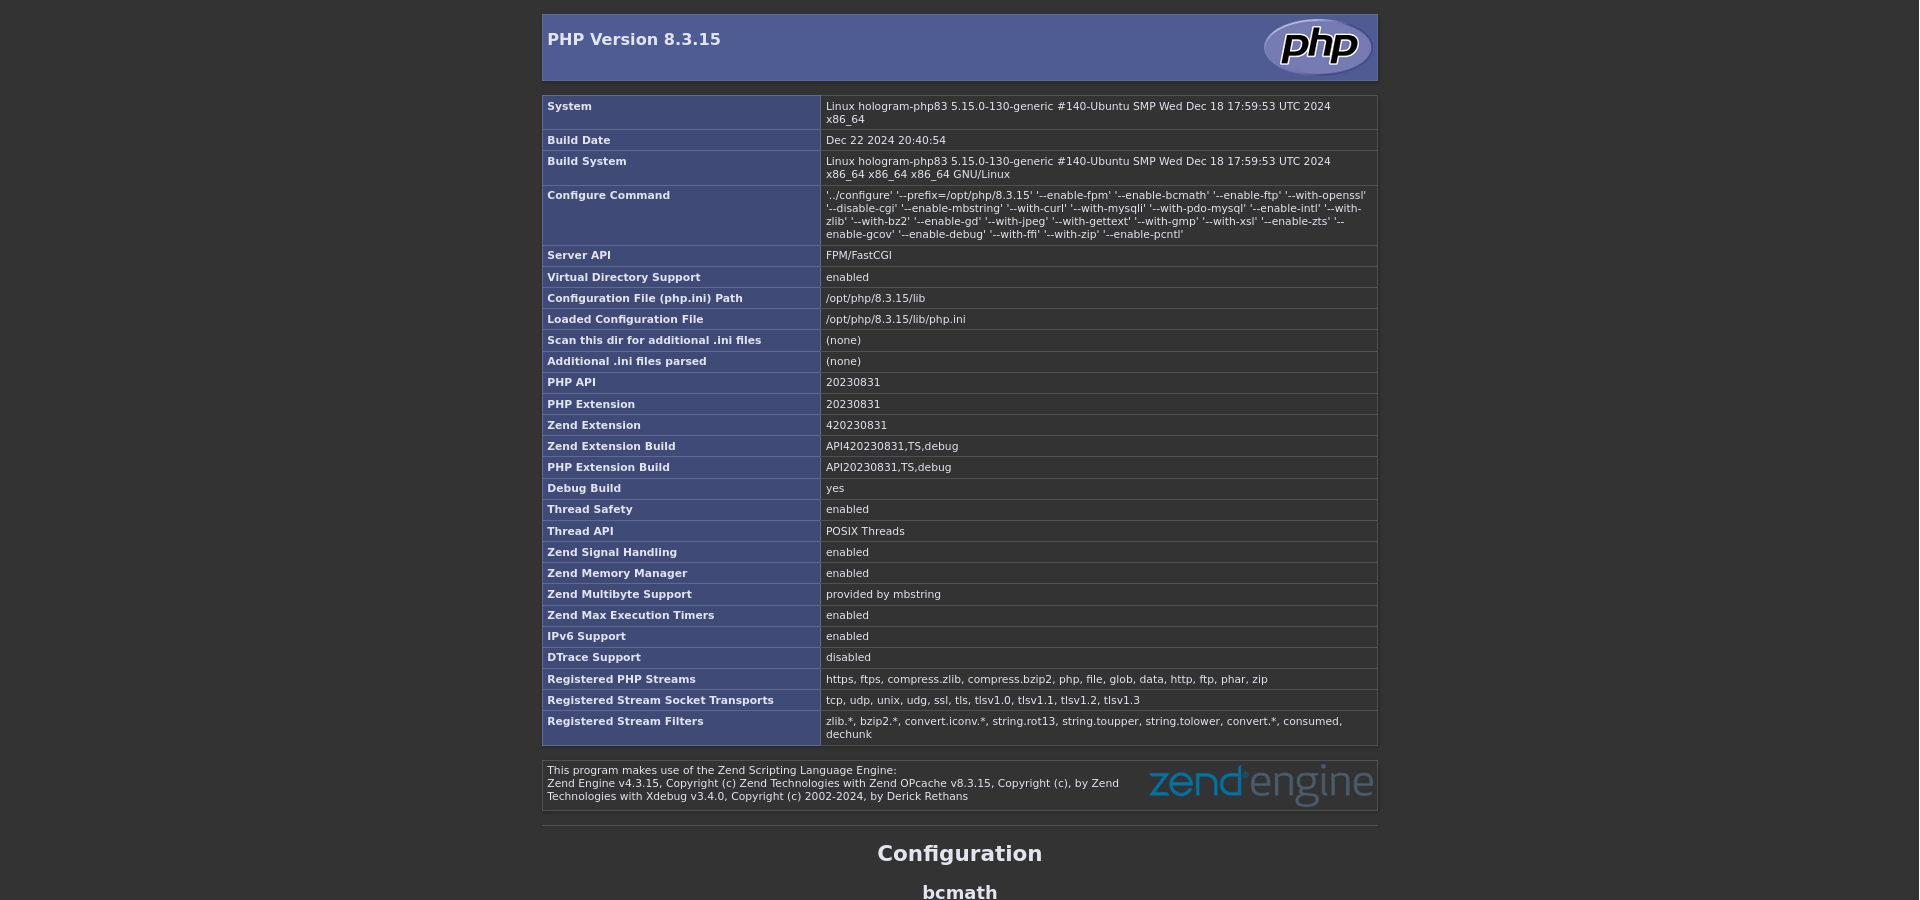
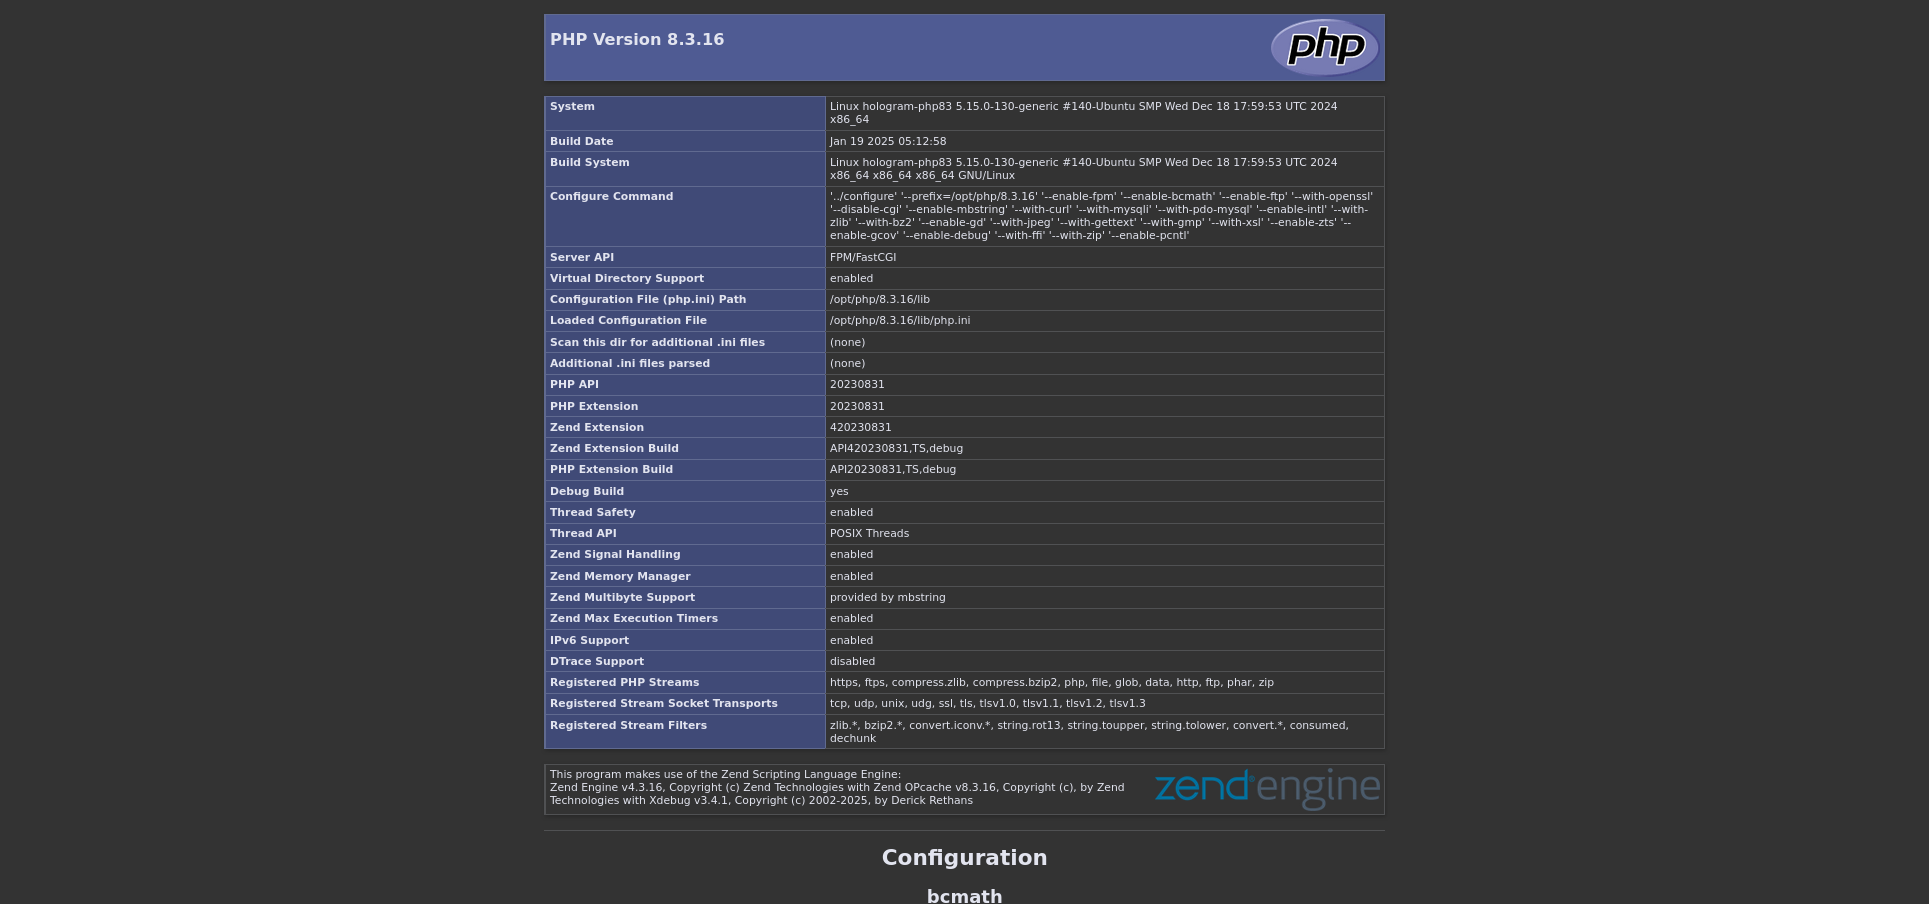
updated

diff --git a/environments/hologram-php83/6_PHP_SETUP.md b/environments/hologram-php83/6_PHP_SETUP.md
@@ -1,8 +1,8 @@
-# Apache 2 and PHP 8.3.15
+# Apache 2 and PHP 8.3.16
 
 Below we will explain the steps necessary to ensure that the Apache 2 web server uses PHP-FPM (FastCGI Process Manager) compiled from sources.
 
-## download PHP 8.3.15
+## download PHP 8.3.16
 
 ```bash
 cd ~
@@ -12,26 +12,26 @@ mkdir php && cd php
 First I can check the existence of the archive:
 
 ```bash
-wget --spider --https-only https://www.php.net/distributions/php-8.3.15.tar.xz
+wget --spider --https-only https://www.php.net/distributions/php-8.3.16.tar.xz
 ```
 
 After that I can download the archive containing the sources:
 
 ```bash
-wget --https-only https://www.php.net/distributions/php-8.3.15.tar.xz
+wget --https-only https://www.php.net/distributions/php-8.3.16.tar.xz
 ls -l
-sha256sum php-8.3.15.tar.xz
-tar -xf php-8.3.15.tar.xz
+sha256sum php-8.3.16.tar.xz
+tar -xf php-8.3.16.tar.xz
 ls -l
-cd php-8.3.15/
+cd php-8.3.16/
 ```
 
-## settings and compilation from PHP version 8.3.15 sources.
+## settings and compilation from PHP version 8.3.16 sources.
 
 ```bash
 mkdir build_session && cd build_session
 ../configure --help | grep -i "opcache"
-../configure --prefix=/opt/php/8.3.15 --enable-fpm --enable-bcmath --enable-ftp --with-openssl --disable-cgi --enable-mbstring --with-curl --with-mysqli --with-pdo-mysql --enable-intl --with-zlib --with-bz2 --enable-gd --with-jpeg --with-gettext --with-gmp --with-xsl --enable-zts --enable-gcov --enable-debug --with-ffi --with-zip --enable-pcntl
+../configure --prefix=/opt/php/8.3.16 --enable-fpm --enable-bcmath --enable-ftp --with-openssl --disable-cgi --enable-mbstring --with-curl --with-mysqli --with-pdo-mysql --enable-intl --with-zlib --with-bz2 --enable-gd --with-jpeg --with-gettext --with-gmp --with-xsl --enable-zts --enable-gcov --enable-debug --with-ffi --with-zip --enable-pcntl
 make
 make test
 sudo make install
@@ -40,32 +40,32 @@ sudo make install
 ## setup of php-fpm
 
 ```bash
-find ~/php/php-8.3.15 -iname 'php.ini*'
-sudo cp ~/php/php-8.3.15/php.ini-development /opt/php/8.3.15/lib/php.ini
-sudo sed -i 's/;date.timezone =/date.timezone = "Europe\/Rome"/g' /opt/php/8.3.15/lib/php.ini
-sudo sed -i 's/;cgi.fix_pathinfo=1/cgi.fix_pathinfo=0/g' /opt/php/8.3.15/lib/php.ini
-sudo sed -i 's/memory_limit = 128M/memory_limit = 256M/g' /opt/php/8.3.15/lib/php.ini
-grep -i "max_execution_time" /opt/php/8.3.15/lib/php.ini
-sudo sed -i 's/max_execution_time = 30/max_execution_time = 100/g' /opt/php/8.3.15/lib/php.ini
-grep -i "upload_max_filesize" /opt/php/8.3.15/lib/php.ini
-sudo sed -i 's/upload_max_filesize = 2M/upload_max_filesize = 8M/g' /opt/php/8.3.15/lib/php.ini
-sudo cp /opt/php/8.3.15/etc/php-fpm.conf.default /opt/php/8.3.15/etc/php-fpm.conf
-sudo sed -i 's/;pid = run\/php-fpm.pid/pid = run\/php-fpm.pid/g' /opt/php/8.3.15/etc/php-fpm.conf
+find ~/php/php-8.3.16 -iname 'php.ini*'
+sudo cp ~/php/php-8.3.16/php.ini-development /opt/php/8.3.16/lib/php.ini
+sudo sed -i 's/;date.timezone =/date.timezone = "Europe\/Rome"/g' /opt/php/8.3.16/lib/php.ini
+sudo sed -i 's/;cgi.fix_pathinfo=1/cgi.fix_pathinfo=0/g' /opt/php/8.3.16/lib/php.ini
+sudo sed -i 's/memory_limit = 128M/memory_limit = 256M/g' /opt/php/8.3.16/lib/php.ini
+grep -i "max_execution_time" /opt/php/8.3.16/lib/php.ini
+sudo sed -i 's/max_execution_time = 30/max_execution_time = 100/g' /opt/php/8.3.16/lib/php.ini
+grep -i "upload_max_filesize" /opt/php/8.3.16/lib/php.ini
+sudo sed -i 's/upload_max_filesize = 2M/upload_max_filesize = 8M/g' /opt/php/8.3.16/lib/php.ini
+sudo cp /opt/php/8.3.16/etc/php-fpm.conf.default /opt/php/8.3.16/etc/php-fpm.conf
+sudo sed -i 's/;pid = run\/php-fpm.pid/pid = run\/php-fpm.pid/g' /opt/php/8.3.16/etc/php-fpm.conf
 ```
 
 Optionally I prefer to set the language option `short_open_tag` to `On`:
 
 ```bash
-grep -i "short_open_tag = Off" /opt/php/8.3.15/lib/php.ini
-sudo sed -i 's/short_open_tag = Off/short_open_tag = On/g' /opt/php/8.3.15/lib/php.ini
+grep -i "short_open_tag = Off" /opt/php/8.3.16/lib/php.ini
+sudo sed -i 's/short_open_tag = Off/short_open_tag = On/g' /opt/php/8.3.16/lib/php.ini
 ```
 
 Obviously the `timezone` must be set in the most appropriate way because it depends on where the server is located.
 
-At the end of the `/opt/php/8.3.15/etc/php-fpm.conf` file
+At the end of the `/opt/php/8.3.16/etc/php-fpm.conf` file
 
 ```bash
-sudo nano /opt/php/8.3.15/etc/php-fpm.conf
+sudo nano /opt/php/8.3.16/etc/php-fpm.conf
 ```
 
 add the following lines:
@@ -79,15 +79,15 @@ group = www-data
 But it is better to modify with sed and then check the result:
 
 ```bash
-sudo sed -i '$auser = www-data' /opt/php/8.3.15/etc/php-fpm.conf
-sudo sed -i '$agroup = www-data' /opt/php/8.3.15/etc/php-fpm.conf
-tail /opt/php/8.3.15/etc/php-fpm.conf
+sudo sed -i '$auser = www-data' /opt/php/8.3.16/etc/php-fpm.conf
+sudo sed -i '$agroup = www-data' /opt/php/8.3.16/etc/php-fpm.conf
+tail /opt/php/8.3.16/etc/php-fpm.conf
 ```
 
 Now copy `www.conf`:
 
 ```bash
-sudo cp /opt/php/8.3.15/etc/php-fpm.d/www.conf.default /opt/php/8.3.15/etc/php-fpm.d/www.conf
+sudo cp /opt/php/8.3.16/etc/php-fpm.d/www.conf.default /opt/php/8.3.16/etc/php-fpm.d/www.conf
 ls -al /usr/lib/systemd/system/ | grep -i "php-fpm.service"
 ```
 
@@ -99,13 +99,13 @@ sudo nano /usr/lib/systemd/system/php-fpm.service
 
 ```text
 [Unit]
-Description=PHP 8.3.15 FastCGI Process Manager
+Description=PHP 8.3.16 FastCGI Process Manager
 After=network.target
 
 [Service]
 Type=simple
-PIDFile=/opt/php/8.3.15/var/run/php-fpm.pid
-ExecStart=/opt/php/8.3.15/sbin/php-fpm --nodaemonize --fpm-config /opt/php/8.3.15/etc/php-fpm.conf
+PIDFile=/opt/php/8.3.16/var/run/php-fpm.pid
+ExecStart=/opt/php/8.3.16/sbin/php-fpm --nodaemonize --fpm-config /opt/php/8.3.16/etc/php-fpm.conf
 ExecReload=/bin/kill -USR2 $MAINPID
 
 [Install]
@@ -115,14 +115,14 @@ WantedBy=multi-user.target
 Or better yet, if the file just needs modifications:
 
 ```bash
-sudo sed -i 's/8.3.14/8.3.15/g' /usr/lib/systemd/system/php-fpm.service
+sudo sed -i 's/8.3.15/8.3.16/g' /usr/lib/systemd/system/php-fpm.service
 ```
 
 Enable Zend OPcache:
 
 ```bash
-grep -i "zend_extension" /opt/php/8.3.15/lib/php.ini
-sudo sed -i 's/;zend_extension=opcache/zend_extension=opcache.so/g' /opt/php/8.3.15/lib/php.ini
+grep -i "zend_extension" /opt/php/8.3.16/lib/php.ini
+sudo sed -i 's/;zend_extension=opcache/zend_extension=opcache.so/g' /opt/php/8.3.16/lib/php.ini
 ```
 
 ## now I try to start the newly created service:
@@ -155,7 +155,7 @@ During the next step, I have to be very careful.
 I change the module's listening mode from socket TCP to socket UNIX:
 
 ```bash
-sudo nano /opt/php/8.3.15/etc/php-fpm.d/www.conf
+sudo nano /opt/php/8.3.16/etc/php-fpm.d/www.conf
 ```
 
 ```text
@@ -177,17 +177,17 @@ listen.group = www-data
 Similar to what was done before, it is better to modify with `sed` and then check the result:
 
 ```bash
-sudo sed -i 's/^user = nobody/;user = nobody/g' /opt/php/8.3.15/etc/php-fpm.d/www.conf
-grep -i ";user = nobody" /opt/php/8.3.15/etc/php-fpm.d/www.conf
-sudo sed -i 's/^group = nobody/;group = nobody/g' /opt/php/8.3.15/etc/php-fpm.d/www.conf
-grep -i ";group = nobody" /opt/php/8.3.15/etc/php-fpm.d/www.conf
-sudo sed -i 's/^listen = 127.0.0.1:9000/;listen = 127.0.0.1:9000/g' /opt/php/8.3.15/etc/php-fpm.d/www.conf
-grep -i ";listen = 127.0.0.1:9000" /opt/php/8.3.15/etc/php-fpm.d/www.conf
-sudo sed -i '$a; UNIX socket' /opt/php/8.3.15/etc/php-fpm.d/www.conf
-sudo sed -i '$alisten = /run/php-fpm.sock' /opt/php/8.3.15/etc/php-fpm.d/www.conf
-sudo sed -i '$alisten.owner = www-data' /opt/php/8.3.15/etc/php-fpm.d/www.conf
-sudo sed -i '$alisten.group = www-data' /opt/php/8.3.15/etc/php-fpm.d/www.conf
-tail --lines=4 /opt/php/8.3.15/etc/php-fpm.d/www.conf
+sudo sed -i 's/^user = nobody/;user = nobody/g' /opt/php/8.3.16/etc/php-fpm.d/www.conf
+grep -i ";user = nobody" /opt/php/8.3.16/etc/php-fpm.d/www.conf
+sudo sed -i 's/^group = nobody/;group = nobody/g' /opt/php/8.3.16/etc/php-fpm.d/www.conf
+grep -i ";group = nobody" /opt/php/8.3.16/etc/php-fpm.d/www.conf
+sudo sed -i 's/^listen = 127.0.0.1:9000/;listen = 127.0.0.1:9000/g' /opt/php/8.3.16/etc/php-fpm.d/www.conf
+grep -i ";listen = 127.0.0.1:9000" /opt/php/8.3.16/etc/php-fpm.d/www.conf
+sudo sed -i '$a; UNIX socket' /opt/php/8.3.16/etc/php-fpm.d/www.conf
+sudo sed -i '$alisten = /run/php-fpm.sock' /opt/php/8.3.16/etc/php-fpm.d/www.conf
+sudo sed -i '$alisten.owner = www-data' /opt/php/8.3.16/etc/php-fpm.d/www.conf
+sudo sed -i '$alisten.group = www-data' /opt/php/8.3.16/etc/php-fpm.d/www.conf
+tail --lines=4 /opt/php/8.3.16/etc/php-fpm.d/www.conf
 ```
 
 ## match FPM with Apache

diff --git a/environments/hologram-php83/7_XDEBUG_SETUP.md b/environments/hologram-php83/7_XDEBUG_SETUP.md
@@ -23,10 +23,10 @@ rm /usr/bin/php-config
 Otherwise, if this is the first installation from sources, we immediately move on to the following instructions:
 
 ```bash
-ln --symbolic --verbose /opt/php/8.3.15/bin/php /usr/bin/php
-ln --symbolic --verbose /opt/php/8.3.15/bin/phar.phar /usr/bin/phar
-ln --symbolic --verbose /opt/php/8.3.15/bin/phpize /usr/bin/phpize
-ln --symbolic --verbose /opt/php/8.3.15/bin/php-config /usr/bin/php-config
+ln --symbolic --verbose /opt/php/8.3.16/bin/php /usr/bin/php
+ln --symbolic --verbose /opt/php/8.3.16/bin/phar.phar /usr/bin/phar
+ln --symbolic --verbose /opt/php/8.3.16/bin/phpize /usr/bin/phpize
+ln --symbolic --verbose /opt/php/8.3.16/bin/php-config /usr/bin/php-config
 ```
 
 Update `locate` cache:
@@ -43,13 +43,13 @@ Be sure to replace the real link of the version you prefer.
 
 ```bash
 mkdir xdebug && cd xdebug
-wget --spider --https-only https://xdebug.org/files/xdebug-3.4.0.tgz
-wget --https-only https://xdebug.org/files/xdebug-3.4.0.tgz
-sha256sum xdebug-3.4.0.tgz
-tar -xzf xdebug-3.4.0.tgz
-cd xdebug-3.4.0/
+wget --spider --https-only https://xdebug.org/files/xdebug-3.4.1.tgz
+wget --https-only https://xdebug.org/files/xdebug-3.4.1.tgz
+sha256sum xdebug-3.4.1.tgz
+tar -xzf xdebug-3.4.1.tgz
+cd xdebug-3.4.1/
 phpize
-mkdir build_session && cd build_session
+mkdir build_session_date && cd build_session_date
 ../configure --help
 ../configure --prefix=/opt/php/xdebug --enable-xdebug
 make
@@ -59,9 +59,9 @@ sudo make install
 Instead, if it is a PHP version update:
 
 ```bash
-cd xdebug/xdebug-3.4.0/
+cd xdebug/xdebug-3.4.1/
 phpize
-mkdir build_session_update_n && cd build_session_update_n
+mkdir build_session_date && cd build_session_date
 ../configure --help
 ../configure --prefix=/opt/php/xdebug --enable-xdebug
 make
@@ -75,14 +75,14 @@ php --ini
 sudo -s
 updatedb
 locate xdebug.ini
-rnano /opt/php/8.3.15/lib/php.ini
+rnano /opt/php/8.3.16/lib/php.ini
 ```
 
 First it is a good idea to view the contents of the file without risking causing damage.
-And now I edit `/opt/php/8.3.15/lib/php.ini` configuration file
+And now I edit `/opt/php/8.3.16/lib/php.ini` configuration file
 
 ```bash
-nano /opt/php/8.3.15/lib/php.ini
+nano /opt/php/8.3.16/lib/php.ini
 ```
 
 I add this section:
